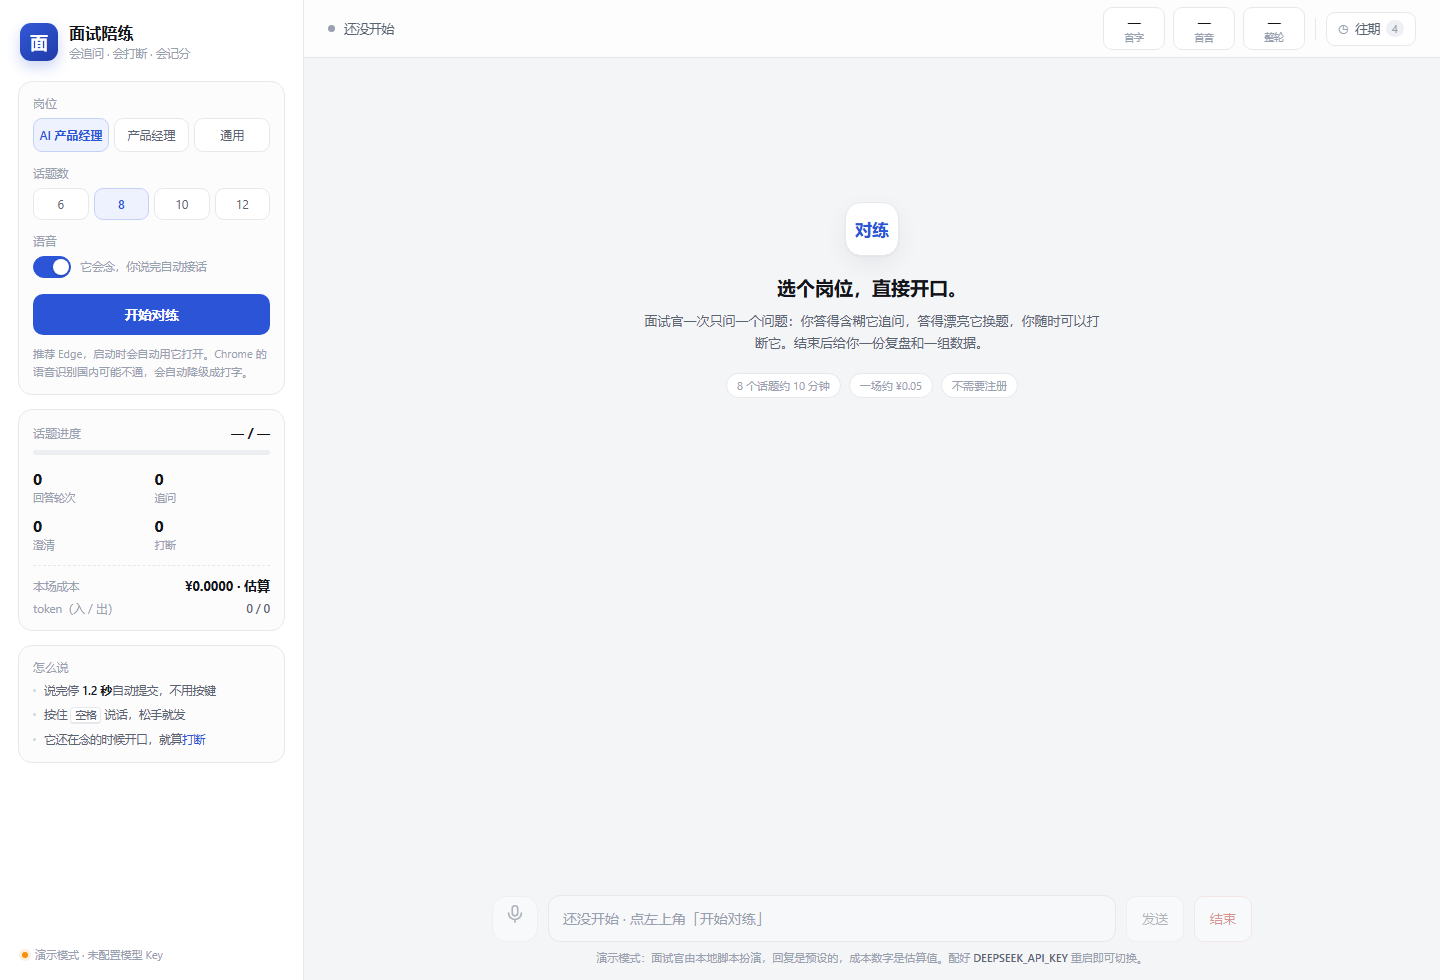
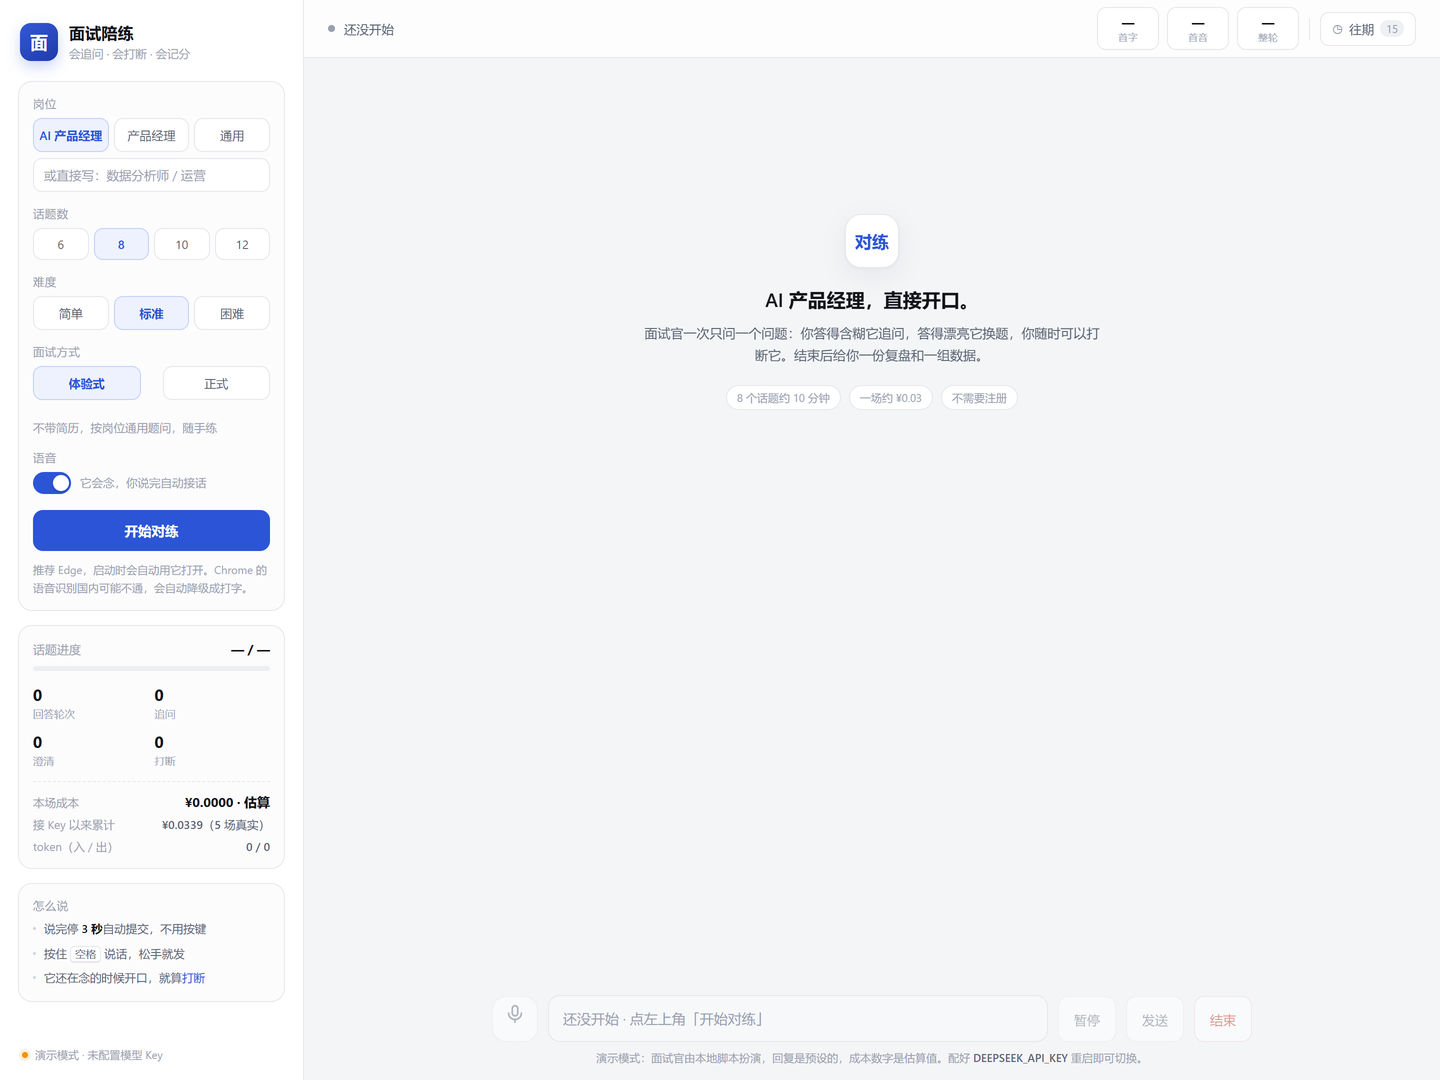
docs: 重拍首页截图（岗位输入框 + 面试方式两档），图注补上这两项

diff --git a/README.md b/README.md
@@ -16,7 +16,7 @@
   <img src="eval/shot-chat.png" width="49%" alt="对话：每个动作都标了判定依据">
 </p>
 
-左：选岗位、话题数、语音或打字，点「开始对练」就能开口。
+左：岗位（三个预设，或者自己写）、话题数、难度、面试方式（体验式 / 正式）、语音或打字，点「开始对练」就能开口。
 右：每个气泡都带动作标签——`提问` / `追问（偏短 20 字 < 22）` / `换题（含否决词「没做过」）`，判定由代码算，不调模型。
 
 > 以上是演示模式截图（未配置 Key，面试官由本地脚本扮演，所以时延显示 0ms）。接上 Key 后界面不变，模型换成真实调用。
